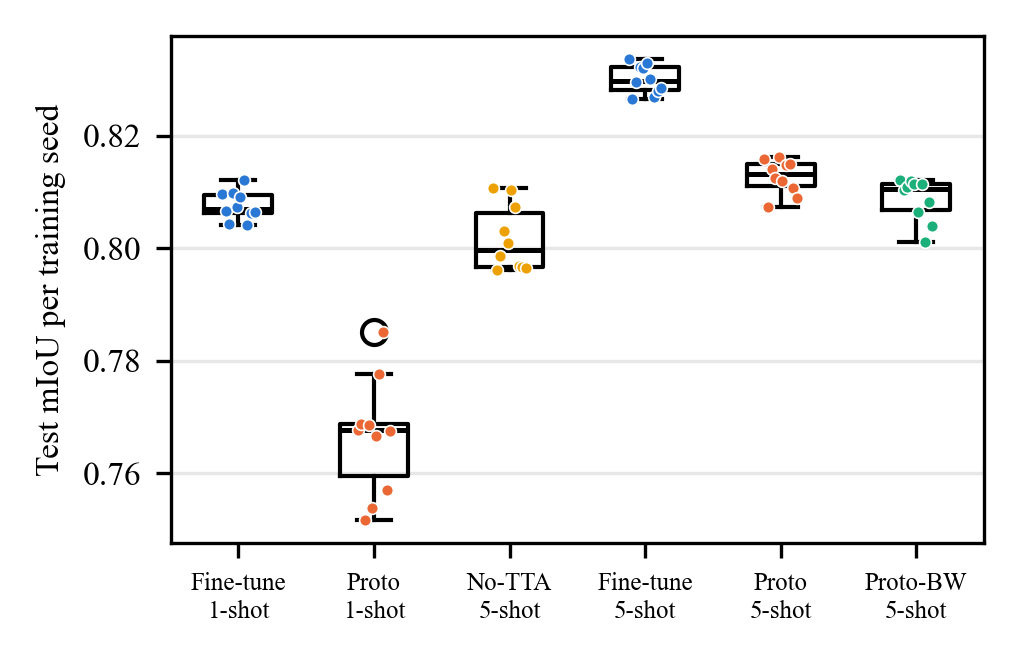
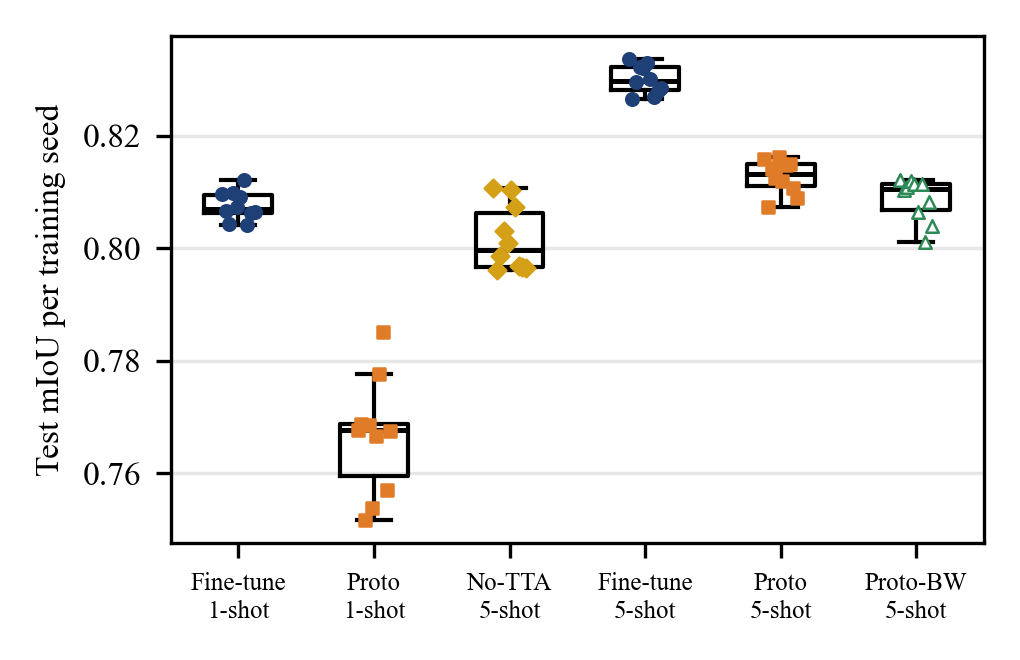
Make figures readable in black and white (line styles and marker shapes)

diff --git a/scripts/stats_and_figures.py b/scripts/stats_and_figures.py
@@ -40,10 +40,13 @@ plt.rcParams.update({"font.family": "serif",
 
 # Fixed colour per condition (never reassigned); marker + dash give a second encoding.
 STYLE = {
-    "baseline":           {"label": "Fine-tune",        "color": "#2a78d6", "marker": "o"},
-    "prototype":          {"label": "Proto",            "color": "#eb6834", "marker": "s"},
-    "prototype_weighted": {"label": "Proto-BW",         "color": "#1baf7a", "marker": "^"},
-    "baseline_noTTA":     {"label": "Fine-tune, no TTA", "short": "No-TTA", "color": "#eda100", "marker": "D"},
+    # Colours differ in brightness and every line has its own dash and marker,
+    # so the figures still read correctly when printed in black and white.
+    "baseline":           {"label": "Fine-tune", "color": "#1f3f77", "marker": "o", "ls": "-", "mfc": None},
+    "prototype":          {"label": "Proto", "color": "#e07b28", "marker": "s", "ls": "--", "mfc": None},
+    "prototype_weighted": {"label": "Proto-BW", "color": "#2e8b57", "marker": "^", "ls": ":", "mfc": "white"},
+    "baseline_noTTA":     {"label": "Fine-tune, no TTA", "short": "No-TTA", "color": "#d4a017", "marker": "D",
+                           "ls": "-.", "mfc": None},
 }
 
 # Planned comparisons (A - B). Each metric is its own Holm family.
@@ -192,10 +195,10 @@ def main():
         arr = np.array([c[:n] for c in curves])
         x = np.arange(1, n + 1)
         st = STYLE[cond]
-        ax.plot(x, arr.mean(0), marker=st["marker"], ms=3, lw=1, color=st["color"],
-                label=f"{st['label']} (n={len(curves)})")
+        ax.plot(x, arr.mean(0), marker=st["marker"], ms=3.5, lw=1.2, ls=st["ls"], color=st["color"],
+                mfc=st["mfc"] or st["color"], mec=st["color"], label=f"{st['label']} (n={len(curves)})")
         if len(curves) > 1:
-            ax.fill_between(x, arr.min(0), arr.max(0), color=st["color"], alpha=0.15, lw=0)
+            ax.fill_between(x, arr.min(0), arr.max(0), color=st["color"], alpha=0.10, lw=0)
     ax.set_xlabel("Epoch")
     ax.xaxis.set_major_locator(matplotlib.ticker.MaxNLocator(integer=True))
     ax.set_ylabel("Validation mIoU")
@@ -208,19 +211,20 @@ def main():
     # ---------------- figure: per-training-seed test mIoU
     order = [("k1", "baseline"), ("k1", "prototype"), ("k5", "baseline_noTTA"), ("k5", "baseline"),
              ("k5", "prototype"), ("k5", "prototype_weighted")]
-    data, labels, colors = [], [], []
+    data, labels, styles = [], [], []
     for k, cond in order:
         rs = final.get(f"{k}_{cond}")
         if rs:
             data.append([r["mIoU"] for r in rs])
             labels.append(f"{STYLE[cond].get('short', STYLE[cond]['label'])}\n{k[1:]}-shot")
-            colors.append(STYLE[cond]["color"])
+            styles.append(STYLE[cond])
     if data:
         fig, ax = plt.subplots(figsize=(3.4, 2.2), dpi=300)
-        ax.boxplot(data, tick_labels=labels, widths=0.5, medianprops=dict(color="black", lw=1.2))
-        for i, (vals, c) in enumerate(zip(data, colors), start=1):
+        ax.boxplot(data, tick_labels=labels, widths=0.5, showfliers=False, medianprops=dict(color="black", lw=1.2))
+        for i, (vals, st) in enumerate(zip(data, styles), start=1):
             jitter = np.linspace(-0.12, 0.12, len(vals)) if len(vals) > 1 else [0]
-            ax.scatter(np.full(len(vals), i) + jitter, vals, s=8, color=c, zorder=3, edgecolors="white", linewidths=0.4)
+            ax.scatter(np.full(len(vals), i) + jitter, vals, s=9, marker=st["marker"], zorder=3,
+                       facecolors=st["mfc"] or st["color"], edgecolors=st["color"], linewidths=0.6)
         ax.set_ylabel("Test mIoU per training seed")
         ax.tick_params(axis="x", labelsize=6)
         ax.grid(axis="y", alpha=0.3)
